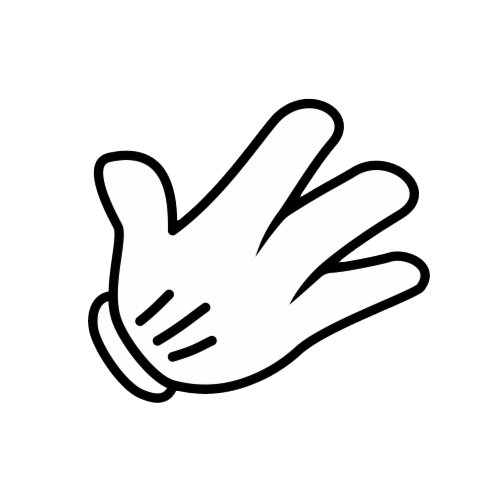
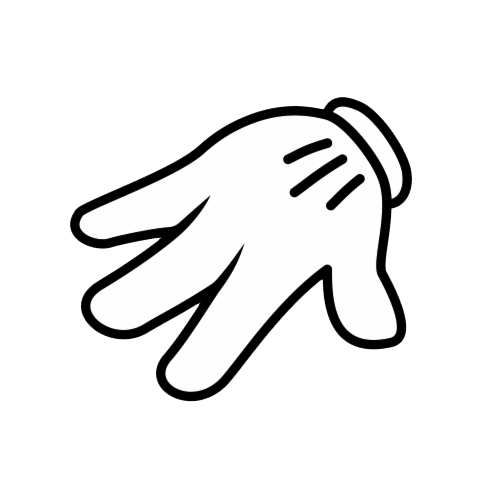
added score update and animation

Changed region(s): [[0.12, 0.18, 0.87, 0.81]]

diff --git a/script.js b/script.js
@@ -17,18 +17,82 @@ const playMatch = () => {
   const playerHand = document.querySelector(".player-hand");
   const computerHand = document.querySelector(".computer-hand");
 
-  const computerOptions = ["rock", "paper", "scissor"];
+  const computerOptions = ["Rock", "Paper", "Scissor"];
 
   options.forEach((option) => {
     option.addEventListener("click", function () {
       const computerRandom = Math.floor(Math.random() * 3);
       const computerChoice = computerOptions[computerRandom];
-      compareHands(playerChoice, computerChoice);
+
+      playerHand.src = `./img/${this.textContent}.png`;
+      computerHand.src = `./img/${computerChoice}.png`;
+
+      playerHand.style.animation = "player-hand-shake 2s ease";
+      computerHand.style.animation = "computer-hand-shake 2s ease";
+
+      compareHands(this.textContent, computerChoice);
     });
   });
 };
 
-const compareHands = (playerChoice, computerChoice) => {};
+const compareHands = (playerChoice, computerChoice) => {
+  const status = document.querySelector(".status");
+
+  if (playerChoice === computerChoice) {
+    status.textContent = "It's a tie";
+    return;
+  }
+
+  if (playerChoice === "Rock") {
+    if (computerChoice === "Scissor") {
+      status.textContent = "Player wins";
+      playerScore++;
+      updateScore();
+      return;
+    } else {
+      status.textContent = "Computer wins";
+      computerScore++;
+      updateScore();
+      return;
+    }
+  }
+
+  if (playerChoice === "Paper") {
+    if (computerChoice === "Rock") {
+      status.textContent = "Player wins";
+      playerScore++;
+      updateScore();
+      return;
+    } else {
+      status.textContent = "Computer wins";
+      computerScore++;
+      updateScore();
+      return;
+    }
+  }
+
+  if (playerChoice === "Scissor") {
+    if (computerChoice === "Paper") {
+      status.textContent = "Player wins";
+      playerScore++;
+      updateScore();
+      return;
+    } else {
+      status.textContent = "Computer wins";
+      computerScore++;
+      updateScore();
+      return;
+    }
+  }
+};
+
+const updateScore = () => {
+  const playScore = document.querySelector(".player-score p");
+  const comScore = document.querySelector(".computer-score p");
+
+  playScore.textContent = playerScore;
+  comScore.textContent = computerScore;
+};
 
 startGame();
 playMatch();

diff --git a/style.css b/style.css
@@ -14,6 +14,11 @@ h2 {
   font-weight: 600;
 }
 
+h3 {
+  text-align: center;
+  font-weight: 500;
+}
+
 p {
   font-size: 1.5rem;
   padding: 1rem;
@@ -73,7 +78,7 @@ main .match {
   transition: opacity 0.5s ease-in 0.5s;
 }
 
-main .winner {
+main .status {
   text-align: center;
   font-size: 2.5rem;
 }
@@ -82,7 +87,7 @@ main .options,
 main .hands {
   display: flex;
   align-items: center;
-  justify-content: space-evenly;
+  justify-content: space-around;
 }
 
 .player-hand {
@@ -97,4 +102,52 @@ main .hands {
 .fade-in {
   opacity: 1;
   pointer-events: all;
+}
+
+@keyframes player-hand-shake {
+  0% {
+    transform: rotateY(180deg) translateY(0px);
+  }
+  15% {
+    transform: rotateY(180deg) translateY(-50px);
+  }
+  30% {
+    transform: rotateY(180deg) translateY(0px);
+  }
+  45% {
+    transform: rotateY(180deg) translateY(-50px);
+  }
+  60% {
+    transform: rotateY(180deg) translateY(0px);
+  }
+  75% {
+    transform: rotateY(180deg) translateY(-50px);
+  }
+  100% {
+    transform: rotateY(180deg) translateY(0px);
+  }
+}
+
+@keyframes computer-hand-shake {
+  0% {
+    transform: translateY(0px);
+  }
+  15% {
+    transform: translateY(-50px);
+  }
+  30% {
+    transform: translateY(0px);
+  }
+  45% {
+    transform: translateY(-50px);
+  }
+  60% {
+    transform: translateY(0px);
+  }
+  75% {
+    transform: translateY(-50px);
+  }
+  100% {
+    transform: translateY(0px);
+  }
 }

diff --git a/index.html b/index.html
@@ -15,6 +15,7 @@
             <button>Let's Play</button>
          </div>
          <div class="match fade-out">
+            <h3>Refresh to Restart</h3>
             <div class="score">
                <div class="player-score">
                   <h2>Player</h2>
@@ -25,7 +26,7 @@
                   <p>0</p>
                </div>
             </div>
-            <h2 class="winner">Choose an option</h2>
+            <h2 class="status">Choose an option</h2>
             <div class="hands">
                <img src="./img/rock.png" alt="" class="player-hand">
                <img src="./img/rock.png" alt="" class="computer-hand">
